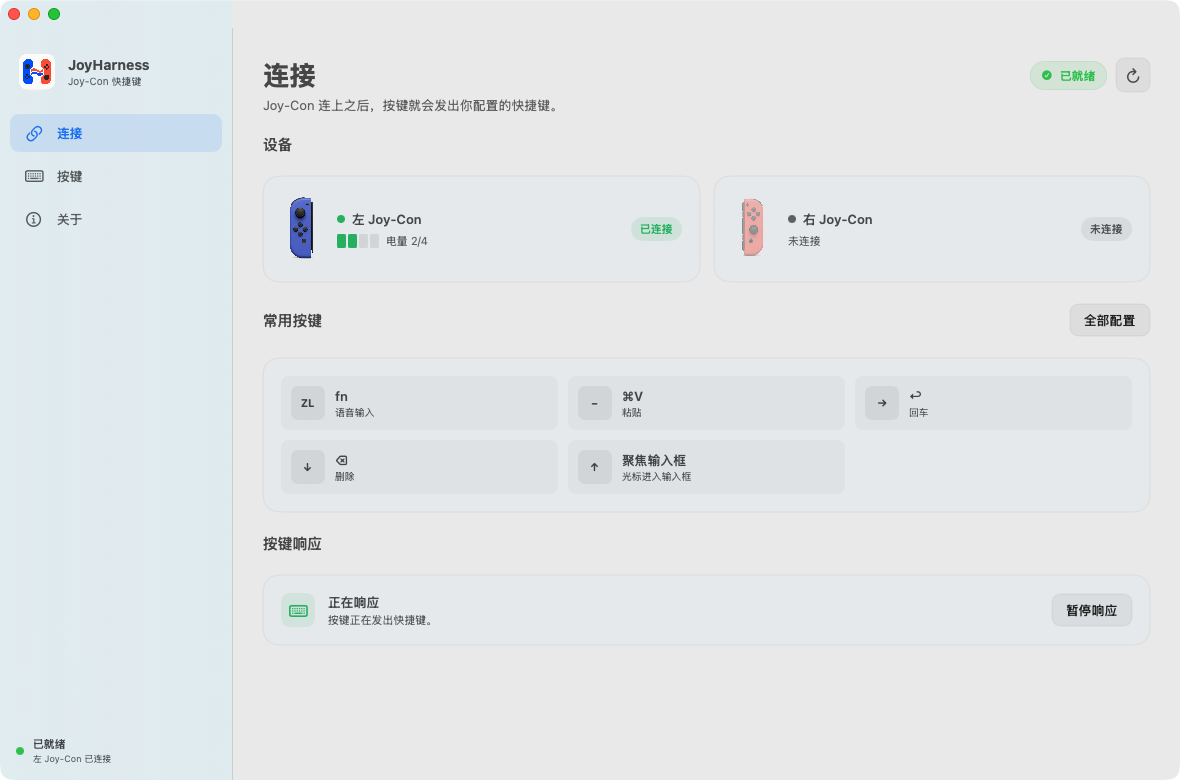
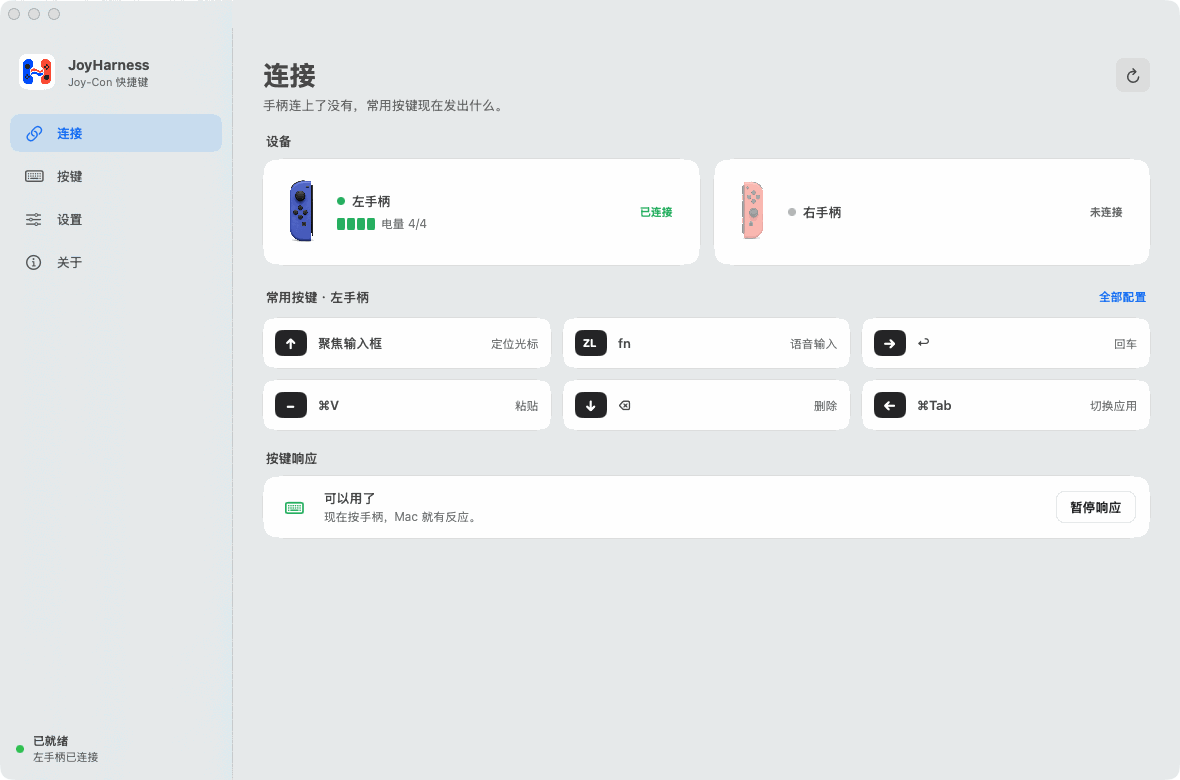
Lead the README with the idle controller, and reshoot it at 0.2.1
The opening sold the mechanism -- "让一只闲置的 Joy-Con 变成 macOS 上的快捷键
控制器" -- and then explained the problem as hands travelling between mouse
and keyboard, which is a process you have to replay in your head before it
means anything. The site now leads with what the thing becomes and what it
costs you (nothing: the controller is already in the drawer), and says the
payoff as a state you can picture. This brings the README in line, and adds
the three-press loop, which was nowhere in it despite being the whole point.

The default mapping table now opens by saying where those defaults came
from. It reads as an arbitrary list otherwise, when in fact the frequent
actions sit where the fingers already rest and the set was worn in by use.

The rest of the README stays as technical as it was; only the framing moved.
Readers here are not the same audience as the site's.

Screenshots retaken against 0.2.1 -- the old ones predate the 设置 page and
the 左手柄/右手柄 naming -- and quantized to a 256-colour palette, 611K to
68K. 「关于 → 系统」 is corrected to 「设置 → 偏好」; that toggle moved in
0.2.0 and the old path no longer exists.

Every other claim was rechecked against the 0.2.1 source rather than
assumed: the mapping table, per-save config backup, the 0.35s long-press
threshold and that the buzz fires only on crossing it, the 10-minute idle
sleep, and the single-language UI. All still hold.

diff --git a/README.md b/README.md
@@ -1,24 +1,26 @@
 # JoyHarness
 
-**把语音输入，握在手里。**
+**吃灰的 Joy-Con，拿来当小键盘。** 把语音输入，握在手里。
 
-JoyHarness 让一只闲置的 Nintendo Switch Joy-Con 变成 macOS 上的快捷键控制器。
+抽屉里那只闲置的 Nintendo Switch Joy-Con，装上 JoyHarness 就是 Mac 的无线蓝牙小键盘。不用拆、不用改装、不用买配件，蓝牙连上就能用。
 
-语音输入已经够快了，但启动听写、确认发送、切换窗口，仍然会把手从鼠标带回键盘。JoyHarness 把这些高频动作放进手柄 —— 你继续看着屏幕、握着鼠标，另一只手就能完成整段表达。
+最常用的是三下：`X` 让光标落进输入框，`ZR` 开始说话，`A` 发出去。一只手握着它就做完了，桌上那块键盘可以往边上挪一挪。
 
 ![JoyHarness 连接页](assets/screenshots/connection.png)
 
 ## 它做什么，不做什么
 
-JoyHarness 接收 Joy-Con 的实体按键，把你配置的快捷键发送给 macOS。**就到这里为止。**
+JoyHarness 读手柄上的按键，把你配置的快捷键发给 macOS。**就到这里为止。**
 
 它**不录音、不做语音识别**。语音那一段由你自己选的输入法完成 —— 我用的是 Typeless 和豆包，换成任何能用系统快捷键启动的工具都可以。
 
 这一点决定了怎么配：默认映射里 `ZR` 发出的是 `fn`，**你得先在自己的语音输入法里把启动快捷键设成 `fn`**，按下去才会有反应。JoyHarness 只负责把键发出去，谁来接是那个工具的设置。
 
-它最初是为了一边和 AI 对话一边写代码做的，但凡是需要长时间对着屏幕说、改、发的事情都适用：写作整理、日常沟通、处理消息。
+它最初是为了让 AI 帮着写代码时少切一次手做的，但凡是需要长时间对着屏幕说、改、发的事情都适用：写东西、理思路、一整天的聊天和回消息。
 
 ## 默认映射
+
+最常用的几个动作落在手指本来就搭着的位置：食指扣 `ZR` 说话，拇指按 `A` 发送。这套默认值是我自己天天用磨出来的，不顺手的早换掉了 —— 它是一份能直接用的起点，不是一份示例配置。
 
 右手柄的默认配置。左手柄在**相同物理位置**提供相同功能：`ZL` 对应 `ZR`，`−` 对应 `+`，方向键的上/右/下/左分别对应 `X`/`A`/`B`/`Y`。
 
@@ -68,7 +70,7 @@ JoyHarness 接收 Joy-Con 的实体按键，把你配置的快捷键发送给 ma
 
 ## 省电
 
-读取按键需要手柄持续上报，所以连接期间它不会自己进入休眠。**手柄空闲时自动休眠默认开着**：闲置 10 分钟后手柄会断开并关机，按任意键唤醒重连。不想要就到「关于 → 系统」关掉。
+读取按键需要手柄持续上报，所以连接期间它不会自己进入休眠。**手柄空闲时自动休眠默认开着**：闲置 10 分钟后手柄会断开并关机，按任意键唤醒重连。不想要就到「设置 → 偏好」关掉「手柄闲着的时候自动休眠」。
 
 ## 已知限制
 
